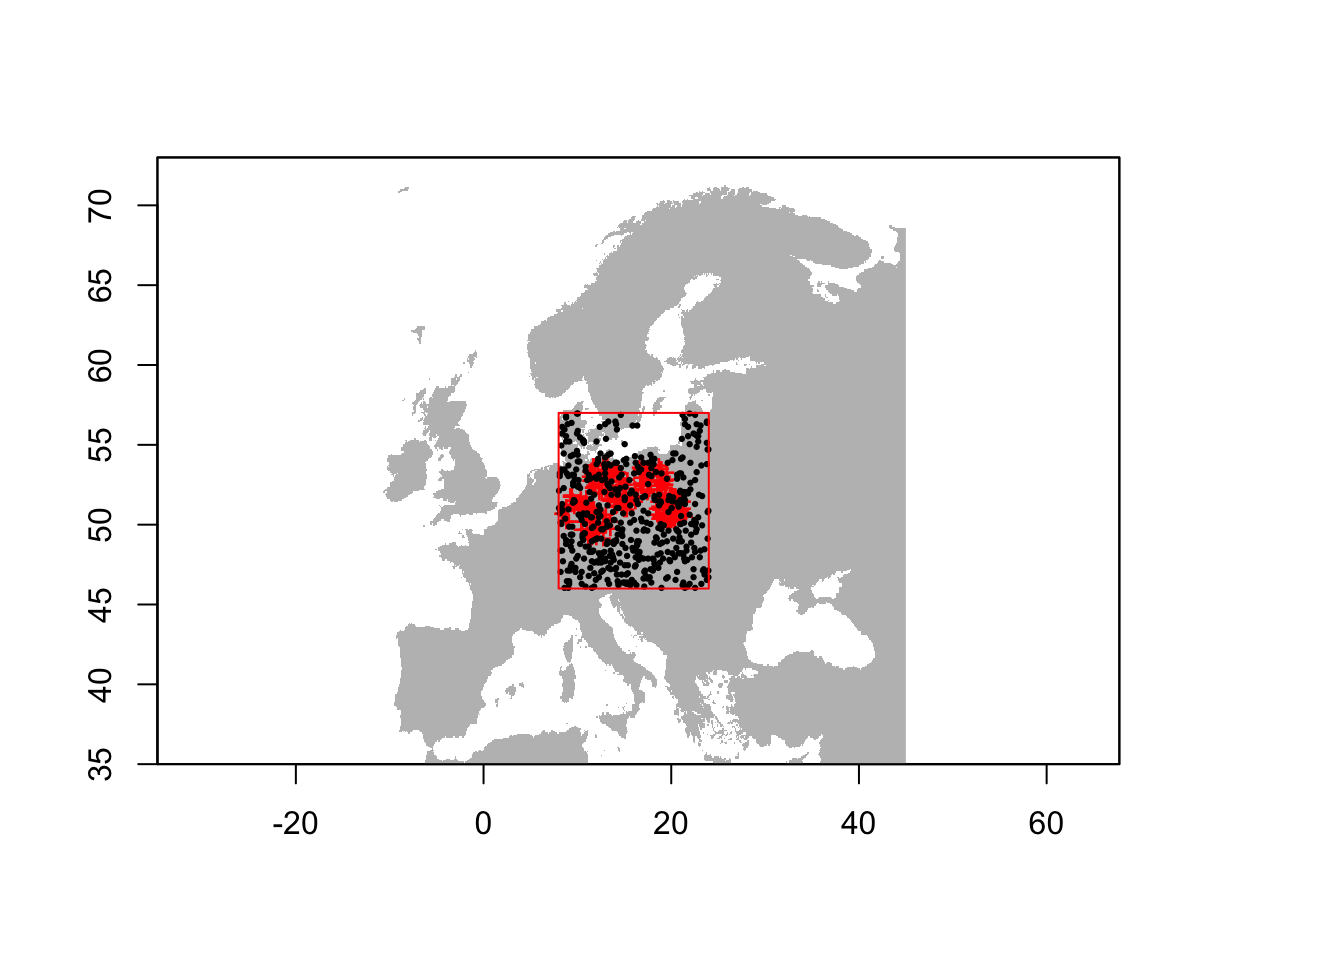
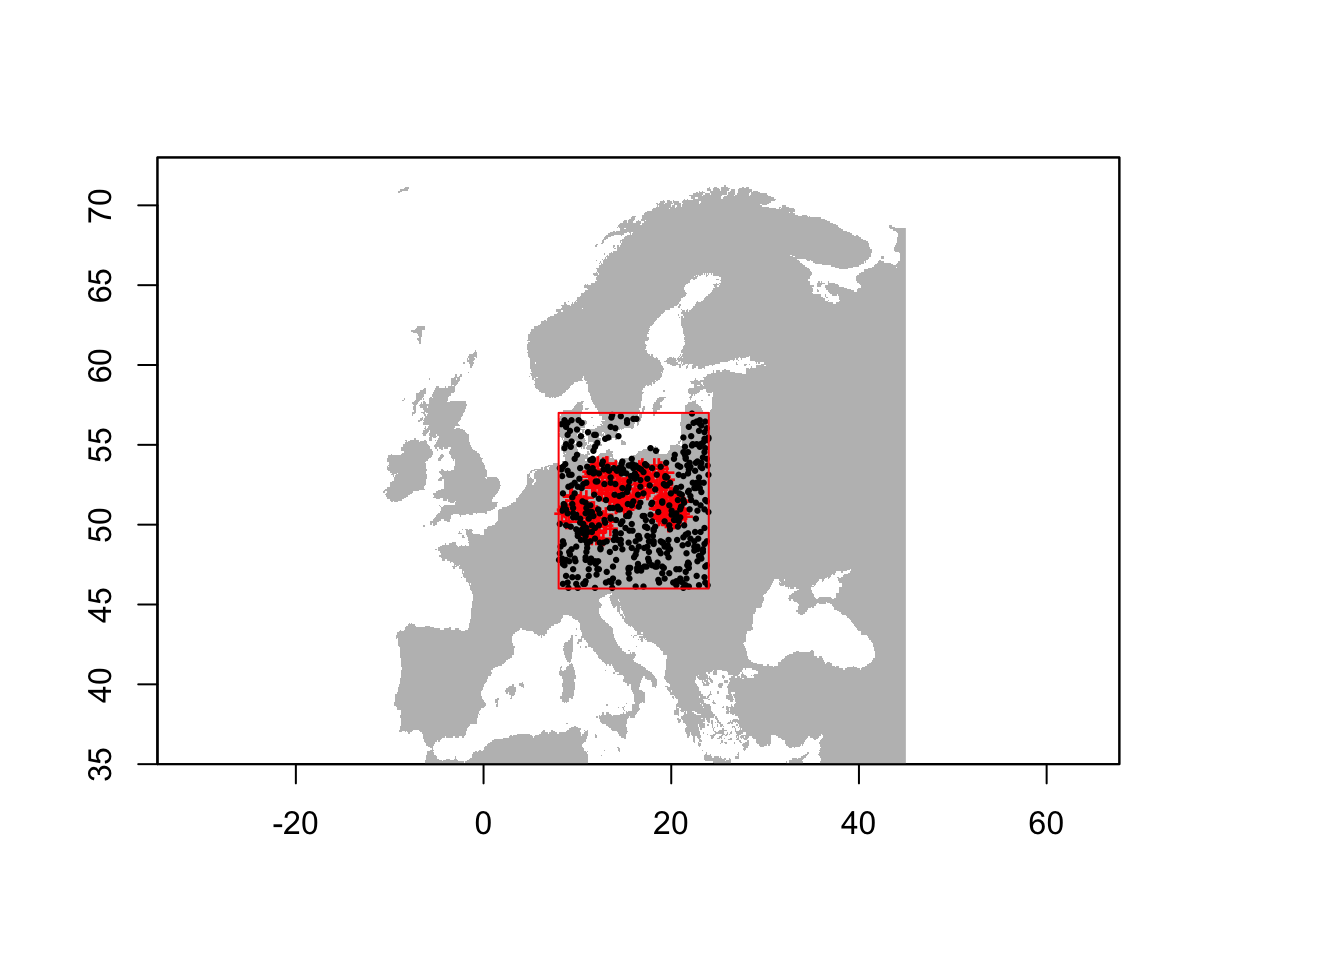
add gridSample() example, minor edits

Changed region(s): [[0.4062, 0.4375, 0.5312, 0.625]]

diff --git a/5_pseudoabsence.html b/5_pseudoabsence.html
@@ -650,77 +650,77 @@ sp_env &lt;- data.frame(gbif_shrew2, occ=1)
 bg_dat &lt;- data.frame(bg_dat)
 summary(bg_dat)</code></pre>
 <pre><code>##        x                y        
-##  Min.   : 3.083   Min.   :43.08  
+##  Min.   : 3.083   Min.   :42.92  
 ##  1st Qu.: 9.250   1st Qu.:46.58  
 ##  Median :13.750   Median :48.58  
-##  Mean   :14.292   Mean   :48.77  
-##  3rd Qu.:19.750   3rd Qu.:50.75  
+##  Mean   :14.269   Mean   :48.71  
+##  3rd Qu.:19.417   3rd Qu.:50.71  
 ##  Max.   :26.750   Max.   :55.58</code></pre>
 <pre class="r"><code>names(bg_dat) &lt;- c(&#39;decimalLongitude&#39;,&#39;decimalLatitude&#39;)
 bg_dat$occ &lt;- 0
 summary(bg_dat)</code></pre>
 <pre><code>##  decimalLongitude decimalLatitude      occ   
-##  Min.   : 3.083   Min.   :43.08   Min.   :0  
+##  Min.   : 3.083   Min.   :42.92   Min.   :0  
 ##  1st Qu.: 9.250   1st Qu.:46.58   1st Qu.:0  
 ##  Median :13.750   Median :48.58   Median :0  
-##  Mean   :14.292   Mean   :48.77   Mean   :0  
-##  3rd Qu.:19.750   3rd Qu.:50.75   3rd Qu.:0  
+##  Mean   :14.269   Mean   :48.71   Mean   :0  
+##  3rd Qu.:19.417   3rd Qu.:50.71   3rd Qu.:0  
 ##  Max.   :26.750   Max.   :55.58   Max.   :0</code></pre>
 <pre class="r"><code># Third, we bind these two data sets
 sp_env &lt;- rbind(sp_env, bg_dat)
 summary(sp_env)</code></pre>
 <pre><code>##  decimalLongitude decimalLatitude      occ         
-##  Min.   : 3.083   Min.   :43.08   Min.   :0.00000  
+##  Min.   : 3.083   Min.   :42.92   Min.   :0.00000  
 ##  1st Qu.: 9.083   1st Qu.:46.42   1st Qu.:0.00000  
-##  Median :13.150   Median :48.25   Median :0.00000  
-##  Mean   :14.037   Mean   :48.61   Mean   :0.09091  
-##  3rd Qu.:19.250   3rd Qu.:50.58   3rd Qu.:0.00000  
+##  Median :13.250   Median :48.25   Median :0.00000  
+##  Mean   :14.016   Mean   :48.55   Mean   :0.09091  
+##  3rd Qu.:18.750   3rd Qu.:50.42   3rd Qu.:0.00000  
 ##  Max.   :26.750   Max.   :55.58   Max.   :1.00000</code></pre>
 <pre class="r"><code># Last, we join this combined data set with the climate data.
 sp_env &lt;- cbind(sp_env, raster::extract(x = clim, y = sp_env[,c(&#39;decimalLongitude&#39;,&#39;decimalLatitude&#39;)], cellnumbers=T) )
 summary(sp_env)</code></pre>
 <pre><code>##  decimalLongitude decimalLatitude      occ              cells      
-##  Min.   : 3.083   Min.   :43.08   Min.   :0.00000   Min.   :35779  
-##  1st Qu.: 9.083   1st Qu.:46.42   1st Qu.:0.00000   1st Qu.:46019  
-##  Median :13.150   Median :48.25   Median :0.00000   Median :50714  
-##  Mean   :14.037   Mean   :48.61   Mean   :0.09091   Mean   :50027  
-##  3rd Qu.:19.250   3rd Qu.:50.58   3rd Qu.:0.00000   3rd Qu.:54492  
-##  Max.   :26.750   Max.   :55.58   Max.   :1.00000   Max.   :61389  
-##       bio1            bio2             bio3            bio4     
-##  Min.   :-26.0   Min.   : 53.00   Min.   :24.00   Min.   :5092  
-##  1st Qu.: 67.0   1st Qu.: 81.00   1st Qu.:29.00   1st Qu.:6260  
-##  Median : 80.0   Median : 86.00   Median :31.00   Median :6822  
-##  Mean   : 79.6   Mean   : 85.67   Mean   :30.34   Mean   :6899  
-##  3rd Qu.: 94.0   3rd Qu.: 92.00   3rd Qu.:32.00   3rd Qu.:7559  
-##  Max.   :164.0   Max.   :107.00   Max.   :39.00   Max.   :8884  
-##       bio5            bio6              bio7            bio8      
-##  Min.   : 78.0   Min.   :-126.00   Min.   :198.0   Min.   :-72.0  
-##  1st Qu.:217.0   1st Qu.: -77.00   1st Qu.:257.0   1st Qu.:134.0  
-##  Median :229.0   Median : -52.00   Median :279.0   Median :162.0  
-##  Mean   :227.8   Mean   : -50.93   Mean   :278.7   Mean   :142.4  
-##  3rd Qu.:243.0   3rd Qu.: -28.00   3rd Qu.:303.0   3rd Qu.:171.0  
-##  Max.   :302.0   Max.   :  58.00   Max.   :331.0   Max.   :204.0  
-##       bio9            bio10         bio11            bio12       
-##  Min.   :-87.00   Min.   : 40   Min.   :-89.00   Min.   : 492.0  
-##  1st Qu.:-18.00   1st Qu.:158   1st Qu.:-34.00   1st Qu.: 637.0  
-##  Median :  9.00   Median :168   Median :-10.00   Median : 768.0  
-##  Mean   : 21.32   Mean   :166   Mean   :-10.96   Mean   : 837.8  
-##  3rd Qu.: 39.00   3rd Qu.:179   3rd Qu.:  6.00   3rd Qu.: 972.0  
-##  Max.   :239.00   Max.   :239   Max.   : 95.00   Max.   :2121.0  
-##      bio13           bio14            bio15           bio16      
-##  Min.   : 60.0   Min.   : 11.00   Min.   : 7.00   Min.   :167.0  
-##  1st Qu.: 80.0   1st Qu.: 31.00   1st Qu.:18.00   1st Qu.:223.0  
-##  Median : 91.0   Median : 43.00   Median :27.00   Median :255.0  
-##  Mean   :100.6   Mean   : 46.66   Mean   :25.98   Mean   :281.3  
-##  3rd Qu.:117.0   3rd Qu.: 56.00   3rd Qu.:33.00   3rd Qu.:325.0  
-##  Max.   :200.0   Max.   :153.00   Max.   :48.00   Max.   :580.0  
+##  Min.   : 3.083   Min.   :42.92   Min.   :0.00000   Min.   :35785  
+##  1st Qu.: 9.083   1st Qu.:46.42   1st Qu.:0.00000   1st Qu.:46321  
+##  Median :13.250   Median :48.25   Median :0.00000   Median :50736  
+##  Mean   :14.016   Mean   :48.55   Mean   :0.09091   Mean   :50155  
+##  3rd Qu.:18.750   3rd Qu.:50.42   3rd Qu.:0.00000   3rd Qu.:54496  
+##  Max.   :26.750   Max.   :55.58   Max.   :1.00000   Max.   :61729  
+##       bio1             bio2             bio3            bio4     
+##  Min.   :-25.00   Min.   : 49.00   Min.   :24.00   Min.   :5047  
+##  1st Qu.: 67.00   1st Qu.: 81.00   1st Qu.:29.00   1st Qu.:6250  
+##  Median : 80.00   Median : 86.00   Median :31.00   Median :6871  
+##  Mean   : 79.51   Mean   : 85.76   Mean   :30.39   Mean   :6892  
+##  3rd Qu.: 94.00   3rd Qu.: 92.00   3rd Qu.:32.00   3rd Qu.:7539  
+##  Max.   :164.00   Max.   :107.00   Max.   :39.00   Max.   :8884  
+##       bio5            bio6             bio7            bio8      
+##  Min.   : 78.0   Min.   :-126.0   Min.   :194.0   Min.   :-72.0  
+##  1st Qu.:217.0   1st Qu.: -77.0   1st Qu.:257.0   1st Qu.:131.0  
+##  Median :230.0   Median : -52.0   Median :280.0   Median :161.0  
+##  Mean   :227.7   Mean   : -50.9   Mean   :278.6   Mean   :141.4  
+##  3rd Qu.:245.0   3rd Qu.: -27.0   3rd Qu.:303.0   3rd Qu.:171.0  
+##  Max.   :304.0   Max.   :  58.0   Max.   :331.0   Max.   :202.0  
+##       bio9            bio10           bio11            bio12       
+##  Min.   :-87.00   Min.   : 41.0   Min.   :-87.00   Min.   : 485.0  
+##  1st Qu.:-18.00   1st Qu.:157.0   1st Qu.:-34.00   1st Qu.: 640.0  
+##  Median :  9.00   Median :168.0   Median :-11.00   Median : 763.0  
+##  Mean   : 21.57   Mean   :165.8   Mean   :-10.98   Mean   : 840.1  
+##  3rd Qu.: 38.00   3rd Qu.:180.0   3rd Qu.:  7.00   3rd Qu.: 975.0  
+##  Max.   :239.00   Max.   :239.0   Max.   : 97.00   Max.   :2056.0  
+##      bio13           bio14            bio15          bio16      
+##  Min.   : 60.0   Min.   :  9.00   Min.   : 7.0   Min.   :169.0  
+##  1st Qu.: 81.0   1st Qu.: 31.00   1st Qu.:18.0   1st Qu.:224.0  
+##  Median : 91.0   Median : 43.00   Median :27.0   Median :255.0  
+##  Mean   :100.9   Mean   : 46.92   Mean   :26.1   Mean   :282.5  
+##  3rd Qu.:117.0   3rd Qu.: 55.00   3rd Qu.:33.0   3rd Qu.:324.0  
+##  Max.   :198.0   Max.   :150.00   Max.   :46.0   Max.   :577.0  
 ##      bio17           bio18         bio19      
-##  Min.   : 65.0   Min.   : 78   Min.   : 65.0  
-##  1st Qu.:104.0   1st Qu.:214   1st Qu.:114.0  
-##  Median :139.0   Median :238   Median :155.0  
-##  Mean   :152.8   Mean   :264   Mean   :171.5  
-##  3rd Qu.:181.0   3rd Qu.:297   3rd Qu.:209.0  
-##  Max.   :474.0   Max.   :563   Max.   :541.0</code></pre>
+##  Min.   : 67.0   Min.   : 82   Min.   : 67.0  
+##  1st Qu.:104.0   1st Qu.:215   1st Qu.:113.0  
+##  Median :139.0   Median :239   Median :155.0  
+##  Mean   :153.5   Mean   :265   Mean   :172.1  
+##  3rd Qu.:182.0   3rd Qu.:302   3rd Qu.:207.0  
+##  Max.   :466.0   Max.   :563   Max.   :526.0</code></pre>
 <div id="spatial-thinning" class="section level2">
 <h2><span class="header-section-number">4.1</span> Spatial thinning</h2>
 <p>When we prepare our distribution data for species distribution modelling, we also need to think about spatial autocorrelation. Using adjacent cells in model building can lead to problems with spatial autocorrelation. One way to avoid this is spatially thinning the records, for example using the package <code>spThin</code> <span class="citation">(Aiello-Lammens et al. 2015)</span>. Load the package and look up the help page <code>?thin</code>.</p>
@@ -737,19 +737,20 @@ sp_env$sp &lt;- &#39;Sorex_alpinus&#39;
 xy &lt;- thin(sp_env, lat.col=&#39;decimalLatitude&#39;,long.col=&#39;decimalLongitude&#39;,spec.col=&#39;sp&#39;, thin.par=20,reps=5, write.files=F,locs.thinned.list.return=T)</code></pre>
 <pre><code>## ********************************************** 
 ##  Beginning Spatial Thinning.
-##  Script Started at: Sun Feb 21 18:27:12 2021
+##  Script Started at: Wed Mar  3 15:37:21 2021
 ## lat.long.thin.count
-## 1061 1063 1066 
-##    1    1    3 
+## 1064 1065 1066 
+##    2    1    2 
 ## [1] &quot;Maximum number of records after thinning: 1066&quot;
-## [1] &quot;Number of data.frames with max records: 3&quot;
+## [1] &quot;Number of data.frames with max records: 2&quot;
 ## [1] &quot;No files written for this run.&quot;</code></pre>
-<pre class="r"><code>xy_keep &lt;- xy[[which.max(sapply(xy,nrow))]]
-
-# Which run yields the most presence records?
+<pre class="r"><code># The thinning function was repeated 5 times, and we now want to know which run retained the presence records?
 which.max(sapply(xy,nrow))</code></pre>
 <pre><code>## [1] 1</code></pre>
-<pre class="r"><code># Thin the dataset - here, we first extract the cell numbers for the thinned coordinates and then use these to subset our data frame.
+<pre class="r"><code># Keep the coordinates with the most presence records
+xy_keep &lt;- xy[[which.max(sapply(xy,nrow))]]
+
+# Thin the dataset - here, we first extract the cell numbers for the thinned coordinates and then use these to subset our data frame.
 cells_thinned &lt;- cellFromXY(clim, xy_keep)
 sp_thinned &lt;- sp_env[sp_env$cells %in% cells_thinned,]
 
@@ -757,40 +758,14 @@ sp_thinned &lt;- sp_env[sp_env$cells %in% cells_thinned,]
 plot(mask, col=&#39;grey90&#39;, legend=F)
 points(sp_thinned[,1:2],pch=19,col=c(&#39;black&#39;,&#39;red&#39;)[as.factor(sp_thinned$occ)], cex=0.3)</code></pre>
 <p><img src="5_pseudoabsence_files/figure-html/unnamed-chunk-16-1.png" width="672" /></p>
-<pre class="r"><code># Alternatively, remove adjacent cells separately in presence data and background data:
-xy_pres &lt;- thin(sp_env[sp_env$occ==1,], lat.col=&#39;decimalLatitude&#39;,long.col=&#39;decimalLongitude&#39;,spec.col=&#39;sp&#39;, thin.par=20,reps=5, write.files=F,locs.thinned.list.return=T)</code></pre>
-<pre><code>## ********************************************** 
-##  Beginning Spatial Thinning.
-##  Script Started at: Sun Feb 21 18:27:21 2021
-## lat.long.thin.count
-## 91 93 
-##  1  4 
-## [1] &quot;Maximum number of records after thinning: 93&quot;
-## [1] &quot;Number of data.frames with max records: 4&quot;
-## [1] &quot;No files written for this run.&quot;</code></pre>
-<pre class="r"><code>xy_pres_keep &lt;- xy_pres[[which.max(sapply(xy_pres,nrow))]]
-
-xy_abs &lt;- thin(sp_env[sp_env$occ==0,], lat.col=&#39;decimalLatitude&#39;,long.col=&#39;decimalLongitude&#39;,spec.col=&#39;sp&#39;, thin.par=20,reps=5, write.files=F,locs.thinned.list.return=T)</code></pre>
-<pre><code>## ********************************************** 
-##  Beginning Spatial Thinning.
-##  Script Started at: Sun Feb 21 18:27:21 2021
-## lat.long.thin.count
-## 1012 1015 1016 1017 1020 
-##    1    1    1    1    1 
-## [1] &quot;Maximum number of records after thinning: 1020&quot;
-## [1] &quot;Number of data.frames with max records: 1&quot;
-## [1] &quot;No files written for this run.&quot;</code></pre>
-<pre class="r"><code>xy_abs_keep &lt;- xy_abs[[which.max(sapply(xy_abs,nrow))]]
-
-# Thin the dataset - here, we first extract the cell numbers for the thinned coordinates and then use these to subset our data frame.
-cells_thinned2 &lt;- cellFromXY(clim, rbind(xy_pres_keep, xy_abs_keep))
-sp_thinned2 &lt;- sp_env[sp_env$cells %in% cells_thinned2,]
+<p><strong>Alternative:</strong> The <code>thin()</code> function can take quite long and needs a lot of memory space. A useful alternative function for spatial thinning is <code>gridSample()</code> in the <code>dismo</code> package.</p>
+<pre class="r"><code>xy &lt;- gridSample(sp_env[,c(&quot;decimalLongitude&quot;,&quot;decimalLatitude&quot;)], mask,chess=&#39;white&#39;)
+sp_thinned2 &lt;- merge(xy,sp_env,by=c(&quot;decimalLongitude&quot;,&quot;decimalLatitude&quot;))
 
 # Plot the map and data
 plot(mask, col=&#39;grey90&#39;, legend=F)
 points(sp_thinned2[,1:2],pch=19,col=c(&#39;black&#39;,&#39;red&#39;)[as.factor(sp_thinned2$occ)], cex=0.3)</code></pre>
-<p><img src="5_pseudoabsence_files/figure-html/unnamed-chunk-16-2.png" width="672" /></p>
-<p><strong>Hint:</strong> Another useful function for spatial thinning is <code>gridSample()</code> in the <code>dismo</code> package.</p>
+<p><img src="5_pseudoabsence_files/figure-html/unnamed-chunk-18-1.png" width="672" /></p>
 <div class="alert alert-info">
 <p><em><strong>Exercise:</strong></em></p>
 <p>Use the GBIF data for your own species (from practical 1), sample background data and prepare a data set with species and climate data. Use these data to run SDMs.</p>

diff --git a/2_EnvData.html b/2_EnvData.html
@@ -462,15 +462,6 @@ plot(clim)</code></pre>
 <p><img src="2_EnvData_files/figure-html/unnamed-chunk-4-1.png" width="672" /></p>
 <p>The <code>raster</code> package offers different functionalities to manipulate the spatial data, for example aggregating the data to coarser resolutions (<code>aggregate</code>), cropping (<code>crop()</code>), stacking (<code>stack()</code>):</p>
 <pre class="r"><code>aggregate(clim[[1]], fact=6, fun=mean)</code></pre>
-<p>Instead of aggregating the bioclim layers, you can also download the “raw” data needed to calculate bioclimatic variables (prec, tmin, tmax), aggregate these to coarser resolution, and then re-calculate the bioclimatic variables. The latter can be done using the <code>biovars()</code> function in the <em>dismo</em> package.</p>
-<pre class="r"><code>library(dismo)
-
-# You may have to adjust the path to your folder structure:
-tmin &lt;- getData(&quot;worldclim&quot;, var=&quot;tmin&quot;, res=10, download=T, path=&quot;data/clim_data&quot;)
-tmax &lt;- getData(&quot;worldclim&quot;, var=&quot;tmax&quot;, res=10, download=T, path=&quot;data/clim_data&quot;)
-prec &lt;- getData(&quot;worldclim&quot;, var=&quot;prec&quot;, res=10, download=T, path=&quot;data/clim_data&quot;)</code></pre>
-<pre class="r"><code># Now, recalculate the bioclimatic variables:
-biovars(prec, tmin, tmax)</code></pre>
 <p>You can also write raster stacks to file:</p>
 <pre class="r"><code>writeRaster(clim,filename=&#39;data/clim_data/bioclim.grd&#39;)</code></pre>
 <p><em>*.grd</em> is the native file format of the <code>raster</code> package. It consists of two files, a data file and a header file (<em>*.gri</em>).</p>
@@ -528,27 +519,27 @@ gbif_shrew2 &lt;- cbind(gbif_shrew2, raster::extract(x = clim, y = data.frame(gb
 duplicated(gbif_shrew2$cells)</code></pre>
 <pre><code>##   [1] FALSE FALSE FALSE FALSE  TRUE FALSE FALSE FALSE FALSE  TRUE FALSE FALSE
 ##  [13] FALSE FALSE FALSE FALSE FALSE FALSE FALSE FALSE FALSE FALSE FALSE FALSE
-##  [25] FALSE FALSE FALSE  TRUE FALSE FALSE  TRUE FALSE FALSE  TRUE FALSE  TRUE
-##  [37] FALSE FALSE FALSE FALSE FALSE FALSE FALSE FALSE FALSE FALSE  TRUE FALSE
-##  [49] FALSE FALSE  TRUE FALSE FALSE FALSE  TRUE  TRUE FALSE  TRUE FALSE  TRUE
-##  [61]  TRUE FALSE FALSE  TRUE FALSE FALSE  TRUE FALSE FALSE  TRUE  TRUE FALSE
-##  [73] FALSE FALSE  TRUE  TRUE FALSE FALSE FALSE FALSE  TRUE FALSE FALSE  TRUE
-##  [85] FALSE  TRUE FALSE FALSE  TRUE FALSE  TRUE  TRUE FALSE FALSE FALSE  TRUE
-##  [97] FALSE FALSE  TRUE  TRUE  TRUE FALSE  TRUE FALSE  TRUE FALSE FALSE  TRUE
-## [109]  TRUE FALSE FALSE  TRUE FALSE  TRUE FALSE  TRUE FALSE  TRUE  TRUE FALSE
-## [121]  TRUE  TRUE FALSE FALSE  TRUE  TRUE FALSE  TRUE FALSE  TRUE  TRUE  TRUE
-## [133] FALSE FALSE  TRUE  TRUE FALSE FALSE FALSE FALSE  TRUE  TRUE  TRUE FALSE
-## [145]  TRUE  TRUE  TRUE FALSE  TRUE  TRUE FALSE  TRUE FALSE  TRUE FALSE  TRUE
-## [157] FALSE  TRUE  TRUE  TRUE  TRUE  TRUE FALSE  TRUE  TRUE  TRUE FALSE FALSE
-## [169]  TRUE  TRUE  TRUE  TRUE  TRUE FALSE FALSE  TRUE  TRUE  TRUE FALSE  TRUE
-## [181] FALSE  TRUE FALSE FALSE FALSE  TRUE  TRUE FALSE  TRUE  TRUE  TRUE  TRUE
-## [193]  TRUE  TRUE FALSE  TRUE  TRUE  TRUE FALSE FALSE  TRUE FALSE  TRUE  TRUE
-## [205]  TRUE FALSE  TRUE  TRUE FALSE FALSE  TRUE FALSE  TRUE  TRUE  TRUE  TRUE
-## [217] FALSE  TRUE  TRUE  TRUE FALSE  TRUE  TRUE FALSE  TRUE FALSE FALSE  TRUE
-## [229]  TRUE FALSE FALSE  TRUE  TRUE  TRUE  TRUE  TRUE  TRUE FALSE FALSE  TRUE
-## [241]  TRUE FALSE FALSE FALSE FALSE FALSE  TRUE  TRUE FALSE FALSE FALSE  TRUE
-## [253] FALSE  TRUE  TRUE  TRUE FALSE  TRUE  TRUE FALSE FALSE FALSE FALSE FALSE
-## [265] FALSE FALSE  TRUE  TRUE FALSE</code></pre>
+##  [25] FALSE FALSE FALSE FALSE  TRUE FALSE FALSE  TRUE FALSE FALSE  TRUE FALSE
+##  [37]  TRUE FALSE FALSE FALSE FALSE FALSE FALSE FALSE FALSE  TRUE FALSE FALSE
+##  [49] FALSE  TRUE FALSE FALSE FALSE  TRUE FALSE FALSE  TRUE FALSE  TRUE FALSE
+##  [61]  TRUE  TRUE FALSE  TRUE FALSE  TRUE FALSE FALSE FALSE FALSE  TRUE FALSE
+##  [73] FALSE  TRUE  TRUE FALSE FALSE FALSE  TRUE  TRUE FALSE FALSE FALSE FALSE
+##  [85]  TRUE FALSE FALSE  TRUE FALSE  TRUE FALSE FALSE  TRUE FALSE  TRUE  TRUE
+##  [97] FALSE FALSE FALSE  TRUE FALSE FALSE  TRUE  TRUE  TRUE FALSE  TRUE FALSE
+## [109]  TRUE FALSE FALSE FALSE FALSE FALSE  TRUE  TRUE FALSE  TRUE  TRUE  TRUE
+## [121] FALSE FALSE FALSE FALSE  TRUE  TRUE FALSE FALSE  TRUE  TRUE  TRUE FALSE
+## [133]  TRUE  TRUE  TRUE  TRUE  TRUE FALSE  TRUE  TRUE FALSE FALSE FALSE FALSE
+## [145]  TRUE  TRUE  TRUE FALSE  TRUE  TRUE  TRUE FALSE  TRUE  TRUE FALSE FALSE
+## [157]  TRUE  TRUE FALSE  TRUE FALSE  TRUE  TRUE  TRUE  TRUE FALSE  TRUE  TRUE
+## [169]  TRUE  TRUE  TRUE FALSE  TRUE  TRUE FALSE  TRUE  TRUE FALSE FALSE  TRUE
+## [181]  TRUE  TRUE FALSE FALSE  TRUE  TRUE FALSE FALSE FALSE  TRUE  TRUE FALSE
+## [193]  TRUE  TRUE  TRUE  TRUE  TRUE  TRUE FALSE  TRUE  TRUE  TRUE FALSE FALSE
+## [205]  TRUE FALSE  TRUE  TRUE  TRUE FALSE  TRUE  TRUE FALSE FALSE FALSE  TRUE
+## [217]  TRUE  TRUE  TRUE  TRUE FALSE  TRUE  TRUE  TRUE FALSE  TRUE  TRUE FALSE
+## [229]  TRUE FALSE FALSE  TRUE  TRUE FALSE FALSE  TRUE  TRUE  TRUE  TRUE  TRUE
+## [241]  TRUE FALSE FALSE FALSE FALSE FALSE FALSE FALSE  TRUE  TRUE FALSE FALSE
+## [253]  TRUE  TRUE FALSE FALSE FALSE FALSE FALSE  TRUE  TRUE FALSE FALSE FALSE
+## [265]  TRUE FALSE  TRUE  TRUE  TRUE FALSE  TRUE  TRUE FALSE</code></pre>
 <pre class="r"><code># Only retain non-duplicated cells:
 gbif_shrew_env &lt;- gbif_shrew2[!duplicated(gbif_shrew2$cells),]</code></pre>
 <p>Remember to save your resulting data frames!</p>
